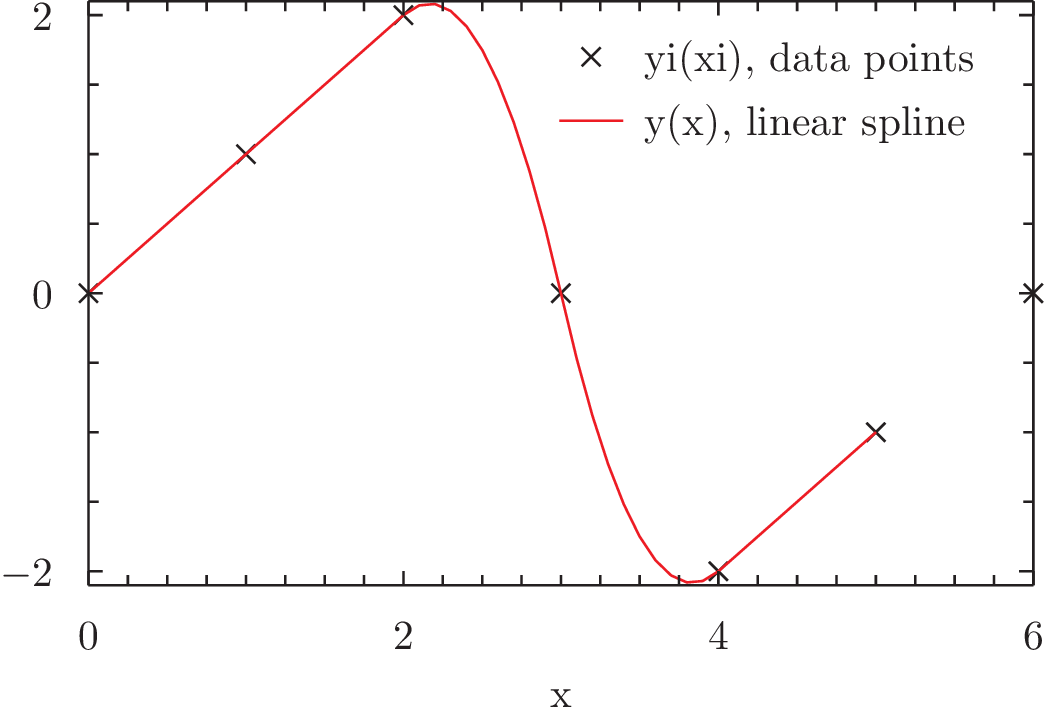
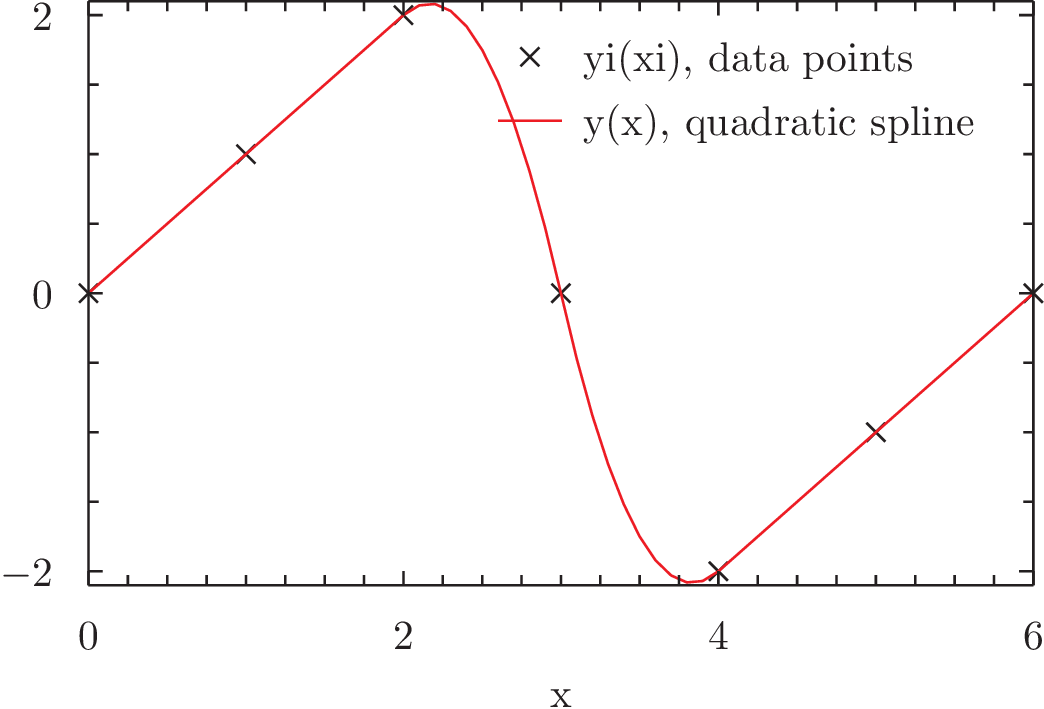
Working in spline part B

diff --git a/homework/splines/B/qspline.cs b/homework/splines/B/qspline.cs
@@ -14,14 +14,15 @@ public class qspline {
 		var p = new  double[x.Length-1];
 		c[0] = 0;
 
-		for(int i = 0; i < (x.Length-2); i++){
+		for(int i = 0; i < (x.Length-1); i++){
 			dx[i] = x[i+1]-x[i];
 			p[i] = (y[i+1]-y[i])/dx[i]; //dydx
 		}	
 		
+		b[0] = p[0] - c[0] *dx[0];
 		for(int i = 0; i < (x.Length-2); i++){
 			c[i+1] = 1/dx[i+1]*(p[i+1]-p[i]-c[i]*dx[i]);
-			b[i] = p[i] - c[i] *dx[i]; 
+			b[i+1] = p[i+1] - c[i+1] *dx[i+1]; 
 		}
 	}
 	
